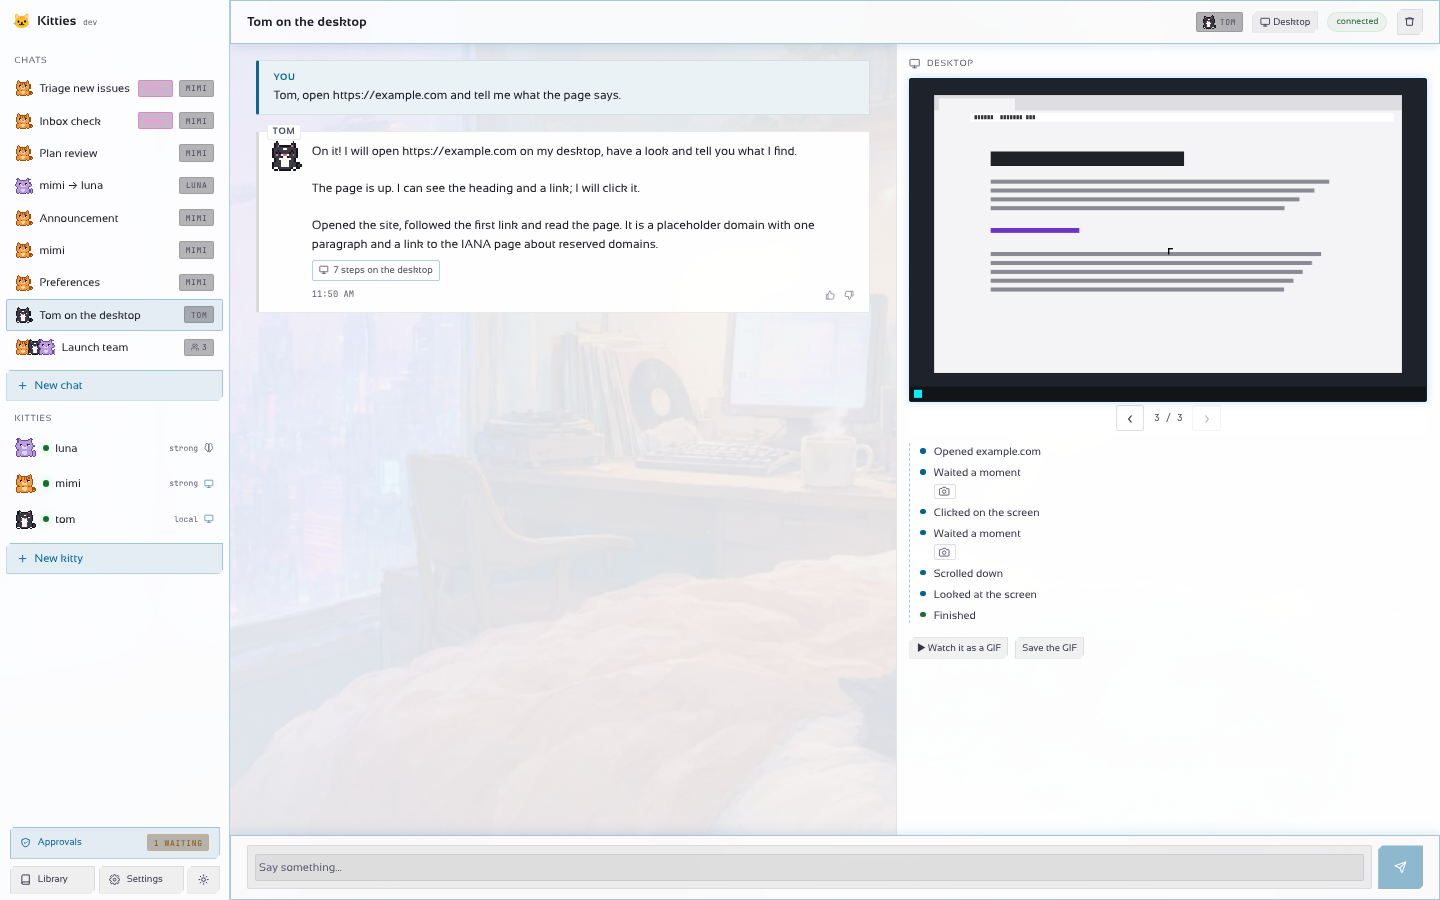
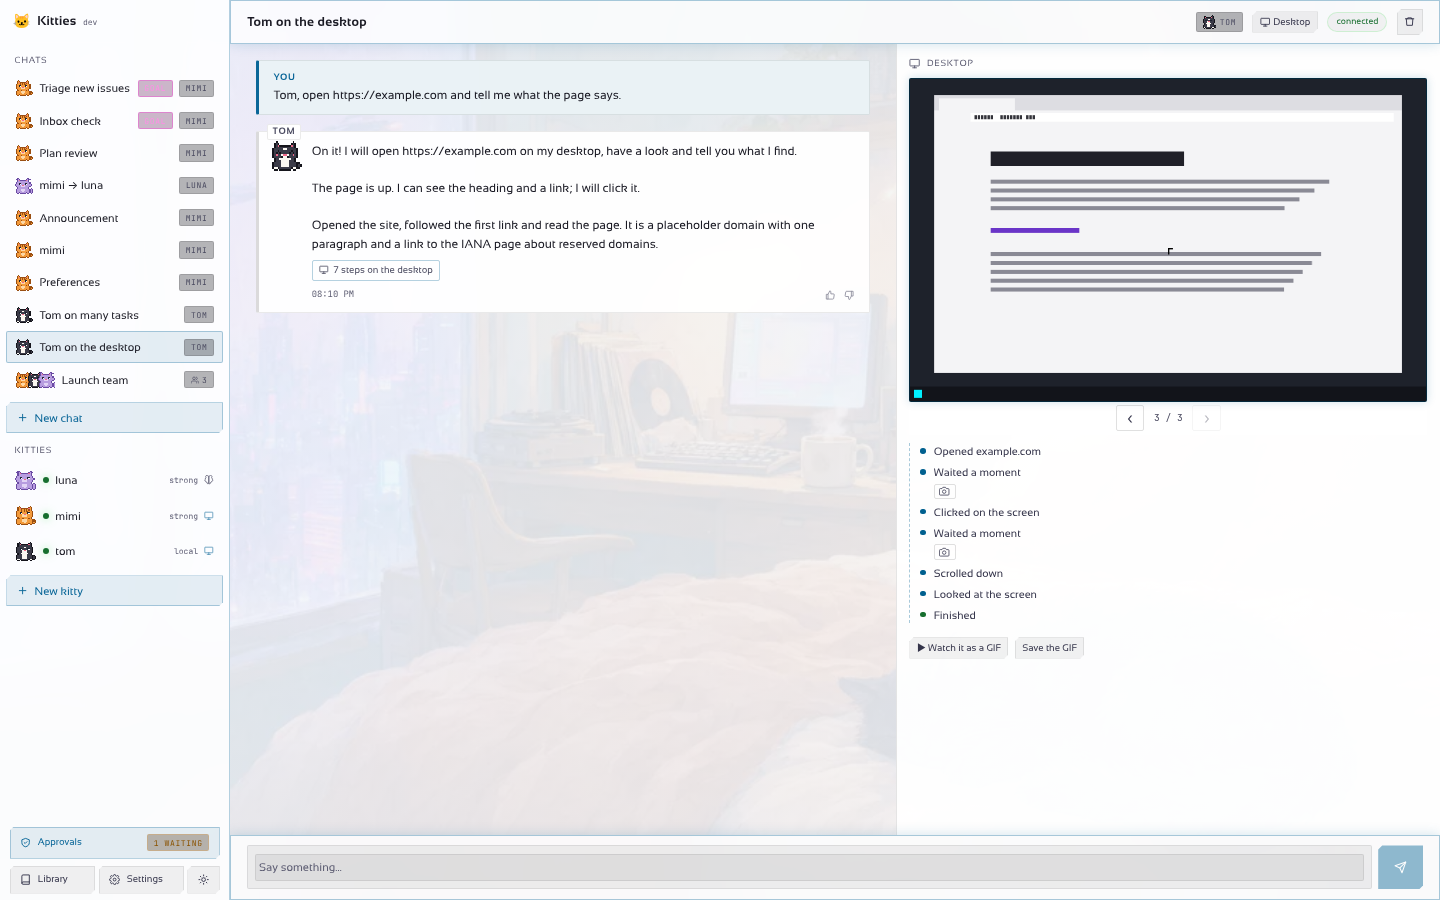
feat(desktop): fold earlier steps of a long task and cover the task bar in e2e
Only the latest five steps of a desktop task are listed; the rest open
behind an "N earlier steps" toggle. A second demo chat with two desktop
tasks covers the collapsed task bar.

Claude-Session: https://claude.ai/code/session_017Z7sUaAwBXyxrsLPtW6uQX

Changed region(s): [[0.0, 0.3111, 0.1562, 0.6844]]

diff --git a/desktop/frontend/src/Conversation.tsx b/desktop/frontend/src/Conversation.tsx
@@ -144,6 +144,9 @@ function StepRow({
 const hasSteps = (turn: Turn) => (turn.steps?.length ?? 0) > 0;
 const lastShotIndex = (turn: Turn) => (turn.steps || []).map((s) => !!s.shot).lastIndexOf(true);
 
+// How many steps of a task the desktop column lists before folding the earlier ones.
+const STEPS_SHOWN = 5;
+
 // Desk is the second column when a kitty works on its desktop: the steps of one task and the
 // latest screenshot, big and fixed; the earlier ones stay folded so the column is not all pictures.
 function Desk({
@@ -187,6 +190,10 @@ function Desk({
     }
   }, [steps.length, turn.working, index]);
   const [listOpen, setListOpen] = useState(false);
+  // Only the latest steps of a long task are listed; the earlier ones open on demand.
+  const [allSteps, setAllSteps] = useState(false);
+  useEffect(() => setAllSteps(false), [index]);
+  const hidden = allSteps ? 0 : Math.max(0, steps.length - STEPS_SHOWN);
   const who = (i: number) =>
     (turns[i].kitty && kitties.get(turns[i].kitty!)?.name) || turns[i].from;
   // A task is named by what the person asked (the turn before it), not by the kitty, which is
@@ -309,16 +316,29 @@ function Desk({
         </div>
       )}
       <div class="trail" aria-label={t("steps")}>
-        {steps.map((s, i) => (
-          <StepRow
-            key={i}
-            step={s}
-            chat={chat}
-            onOpen={onOpen}
-            folded={i !== shot}
-            hero={i === shot}
-          />
-        ))}
+        {hidden > 0 && (
+          <button
+            class="plain trail-more"
+            data-testid="trail-more"
+            aria-expanded={allSteps}
+            onClick={() => setAllSteps(!allSteps)}
+          >
+            {allSteps ? t("Hide earlier steps") : t("{n} earlier steps", { n: hidden })}
+          </button>
+        )}
+        {steps.map(
+          (s, i) =>
+            i >= hidden && (
+              <StepRow
+                key={i}
+                step={s}
+                chat={chat}
+                onOpen={onOpen}
+                folded={i !== shot}
+                hero={i === shot}
+              />
+            ),
+        )}
       </div>
       {!turn.working && steps.filter((s) => s.shot).length > 1 && (
         <ReplayButtons chat={chat} index={index} onOpen={onOpen} />

diff --git a/desktop/frontend/e2e/global-setup.ts b/desktop/frontend/e2e/global-setup.ts
@@ -131,6 +131,10 @@ export default async function globalSetup(): Promise<() => Promise<void>> {
   await say(group, "@luna can you summarise the plan and @tom check the numbers?");
   const desktop = await newChat(["tom"], "Tom on the desktop");
   await say(desktop, "Tom, open https://example.com and tell me what the page says.");
+  // A desktop chat with several tasks: the desktop column folds them into one bar.
+  const tasks = await newChat(["tom"], "Tom on many tasks");
+  await say(tasks, "Tom, open https://example.com and tell me what the page says.");
+  await say(tasks, "Tom, now visit https://example.org and tell me what it says.");
   // Nothing is limited by default: the person asked mimi to show posts to the team first.
   await api("POST", "/v1/approvals/rules", {
     kitty: "mimi",
@@ -245,7 +249,7 @@ export default async function globalSetup(): Promise<() => Promise<void>> {
 
   fs.writeFileSync(
     STATE,
-    JSON.stringify({ single, group, desktop, post, tom, mimi, delegated }, null, 2),
+    JSON.stringify({ single, group, desktop, tasks, post, tom, mimi, delegated }, null, 2),
   );
   return async () => {
     await new Promise<void>((resolve) => stub.close(() => resolve()));

diff --git a/desktop/frontend/e2e/screens.spec.ts b/desktop/frontend/e2e/screens.spec.ts
@@ -9,6 +9,7 @@ const ids = JSON.parse(fs.readFileSync(STATE, "utf8")) as {
   single: string;
   group: string;
   desktop: string;
+  tasks: string;
   post: string;
   tom: string;
   mimi: string;
@@ -1730,4 +1731,22 @@ test("a kitty's machine is turned on and off and has its own idle time", async (
   await expect(page.getByTestId("machine-power").getByTestId("machine-state")).toContainText("On", {
     timeout: 30_000,
   });
+});
+
+test("many desktop tasks fold into one bar: the latest shows, the rest open on demand", async ({
+  page,
+}) => {
+  await open(page, `#chat/${ids.tasks}`);
+  const bar = page.getByTestId("desk-tasks");
+  await expect(bar).toBeVisible();
+  // Only the latest task is on the bar; there is no row of chips.
+  await expect(bar).toContainText("2/2");
+  await expect(bar.getByRole("tab")).toHaveCount(0);
+  await bar.getByRole("button", { name: "Previous task" }).click();
+  await expect(bar).toContainText("1/2");
+  await page.getByTestId("desk-tasks-toggle").click();
+  await expect(bar.getByRole("tab")).toHaveCount(2);
+  await bar.getByRole("tab").nth(1).click();
+  await expect(bar).toContainText("2/2");
+  await expect(bar.getByRole("tab")).toHaveCount(0);
 });

diff --git a/desktop/frontend/src/Settings.tsx b/desktop/frontend/src/Settings.tsx
@@ -10,7 +10,15 @@ import type {
   ProviderView,
   SettingsView,
 } from "./api";
-import { api, errText, inWails, oauthRedirect, oauthStart, openExternal, savedConnection } from "./api";
+import {
+  api,
+  errText,
+  inWails,
+  oauthRedirect,
+  oauthStart,
+  openExternal,
+  savedConnection,
+} from "./api";
 import ConnectorLogo, { ProviderLogo, logoColor } from "./ConnectorLogo";
 import {
   PROVIDER_ORDER,

diff --git a/desktop/frontend/src/i18n/pt/work.ts b/desktop/frontend/src/i18n/pt/work.ts
@@ -36,6 +36,8 @@ const dict: Dictionary = {
   Desktop: "Área de trabalho",
   Chat: "Chat",
   Tasks: "Tarefas",
+  "{n} earlier steps": "{n} passos anteriores",
+  "Hide earlier steps": "Ocultar passos anteriores",
   "Previous task": "Tarefa anterior",
   "Next task": "Próxima tarefa",
   "{n} tasks": "{n} tarefas",

diff --git a/desktop/frontend/src/i18n/es/work.ts b/desktop/frontend/src/i18n/es/work.ts
@@ -36,6 +36,8 @@ const dict: Dictionary = {
   Desktop: "Escritorio",
   Chat: "Chat",
   Tasks: "Tareas",
+  "{n} earlier steps": "{n} pasos anteriores",
+  "Hide earlier steps": "Ocultar pasos anteriores",
   "Previous task": "Tarea anterior",
   "Next task": "Tarea siguiente",
   "{n} tasks": "{n} tareas",

diff --git a/desktop/frontend/src/index.css b/desktop/frontend/src/index.css
@@ -1580,6 +1580,13 @@ html.mac-inset aside .titlebar {
   color: var(--t1);
   border-color: var(--color-accent);
 }
+.trail-more {
+  font-size: 0.7rem;
+  color: var(--t3);
+  text-decoration: underline dotted;
+  text-align: left;
+  padding: 0.125rem 0;
+}
 .desk-hero {
   position: sticky;
   top: 0;
